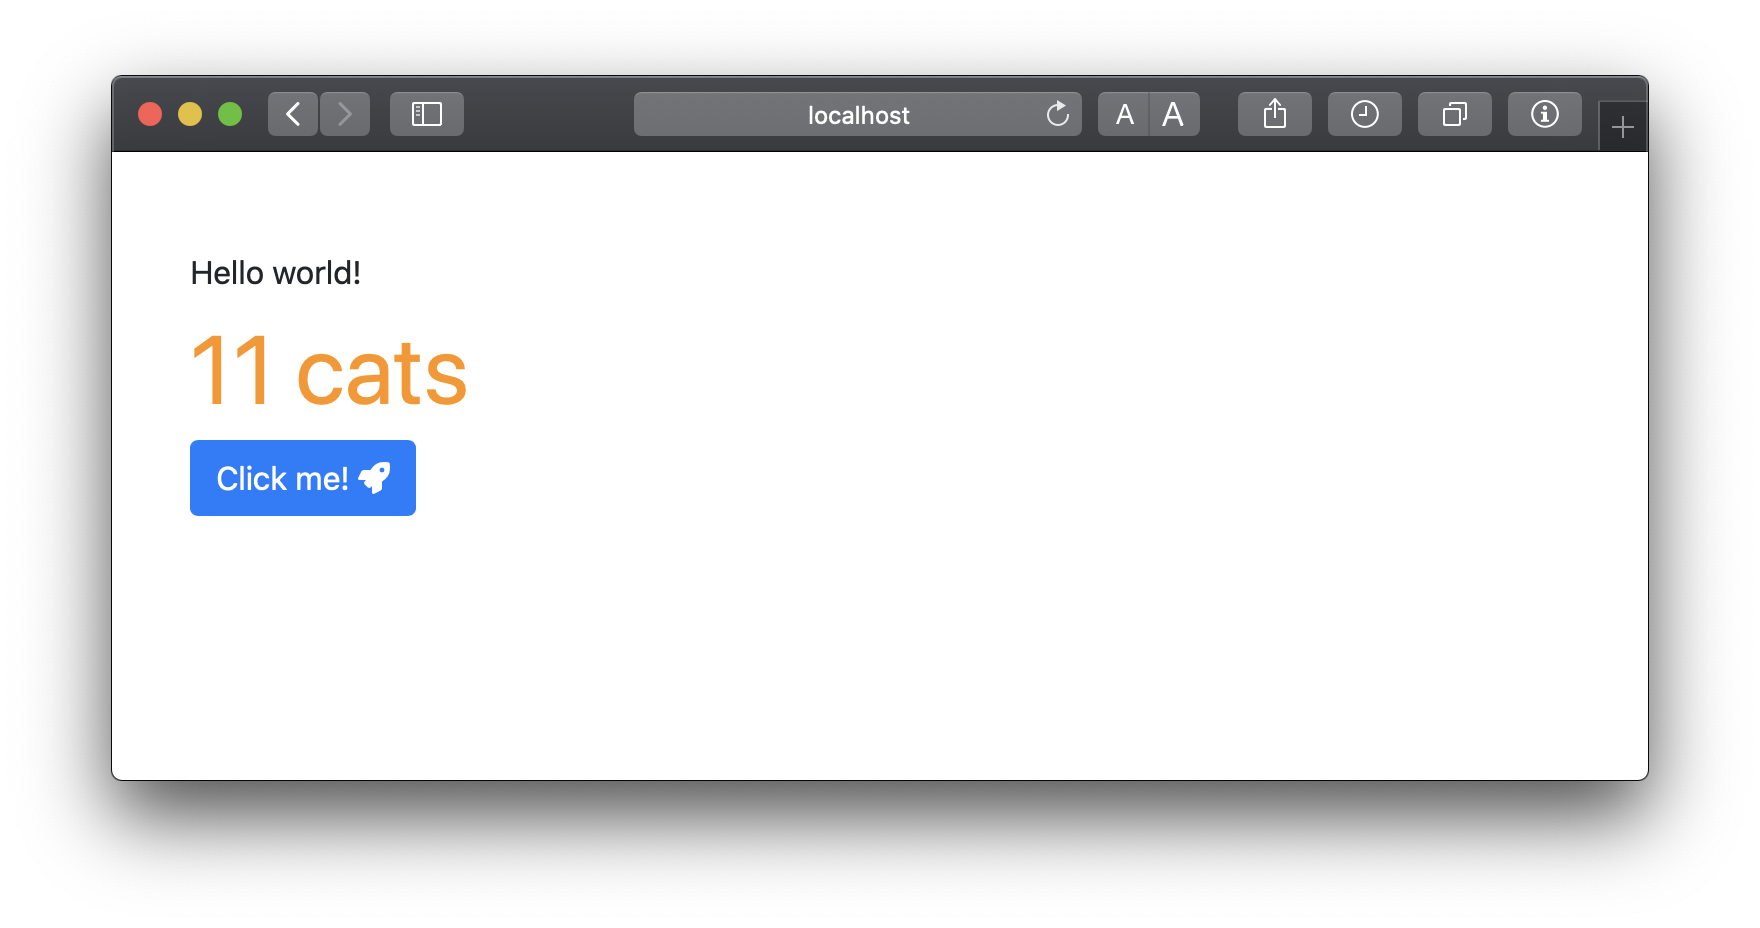
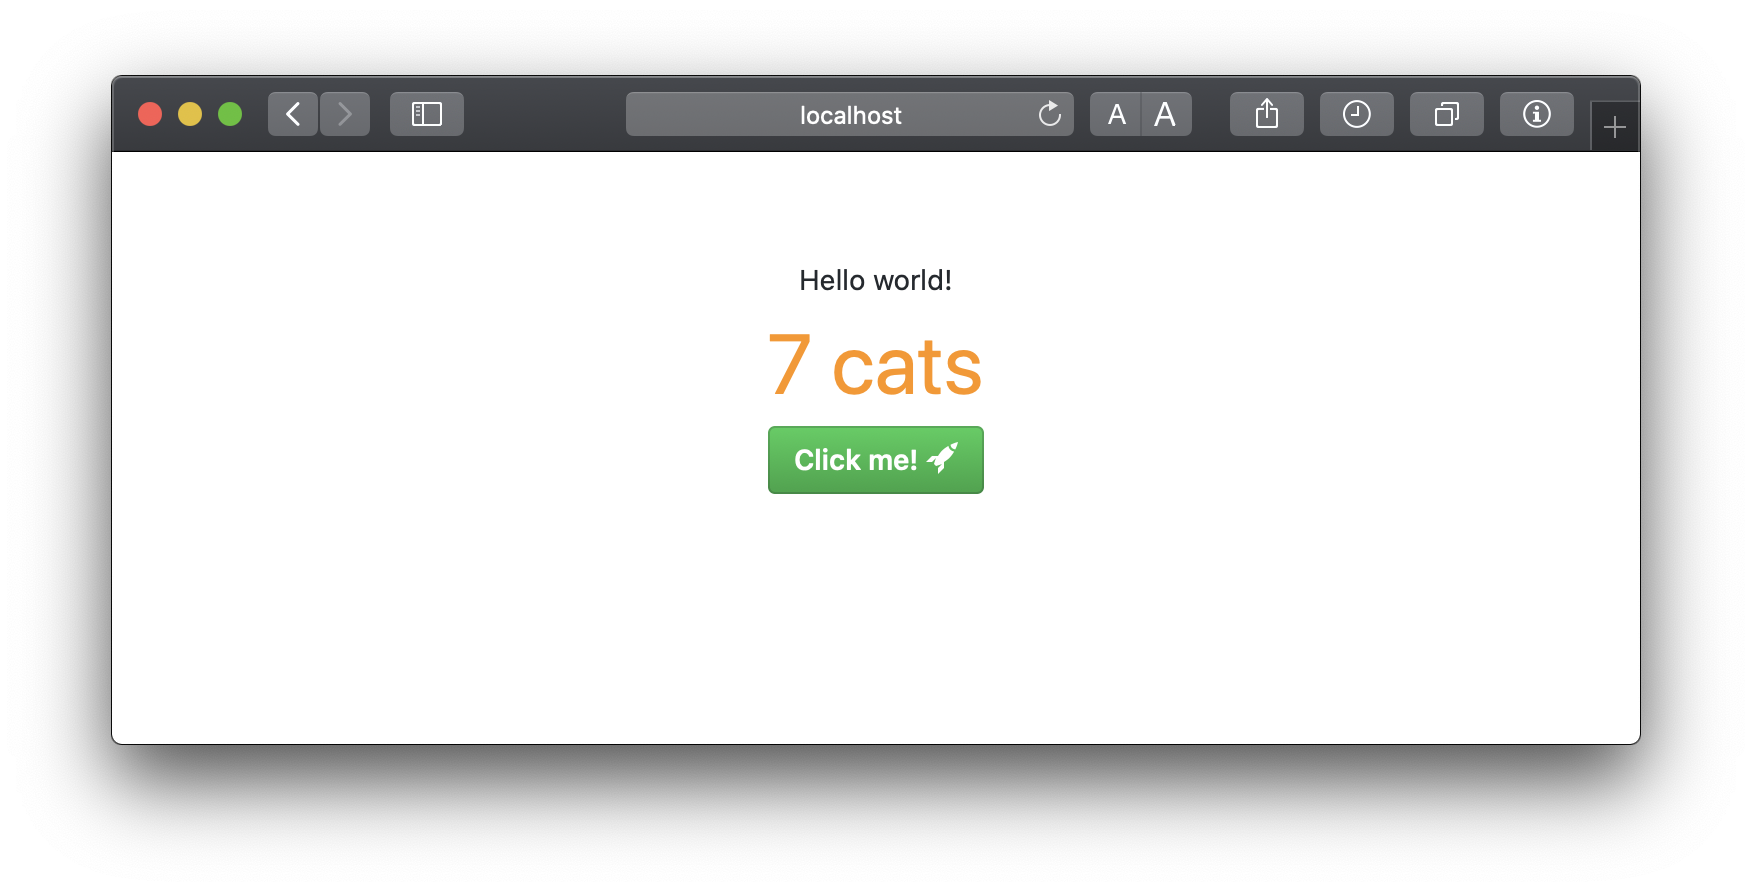
Include Octicon component & replace Bootstrap with GitHub Primer

diff --git a/app/style/style.scss b/app/style/style.scss
@@ -1,6 +1,6 @@
 @import 'variables.scss';
 @import 'outdatedBrowser.scss';
-@import '~bootstrap/scss/bootstrap.scss';
+@import '~@primer/css/index.scss';
 @import '~@fortawesome/fontawesome-free/scss/fontawesome.scss';
 @import '~@fortawesome/fontawesome-free/scss/brands.scss';
 @import '~@fortawesome/fontawesome-free/scss/regular.scss';

diff --git a/app/style/variables.scss b/app/style/variables.scss
@@ -1,1 +1,9 @@
+// Webapp
+$app-orange: #ff9500;
+
+// FontAwesome
 $fa-font-path: "~@fortawesome/fontawesome-free/webfonts" !default;
+
+// GitHub Primer
+// $green-400: lighten($app-orange, 10%);
+// $green-500: $app-orange;

diff --git a/README.md b/README.md
@@ -8,8 +8,9 @@
 - Express.js 🚂
 - i18n internationalization 🌐
 - Webpack 4 📦
-- Bootstrap 4 🎨
+- GitHub Primer 🎨
 - FontAwesome 5 🔣
+- Octicons :github:
 - Popper.js 💬
 - jQuery 🧸
 - Outdated browser warning generated from `.browserslistrc` 🚨
